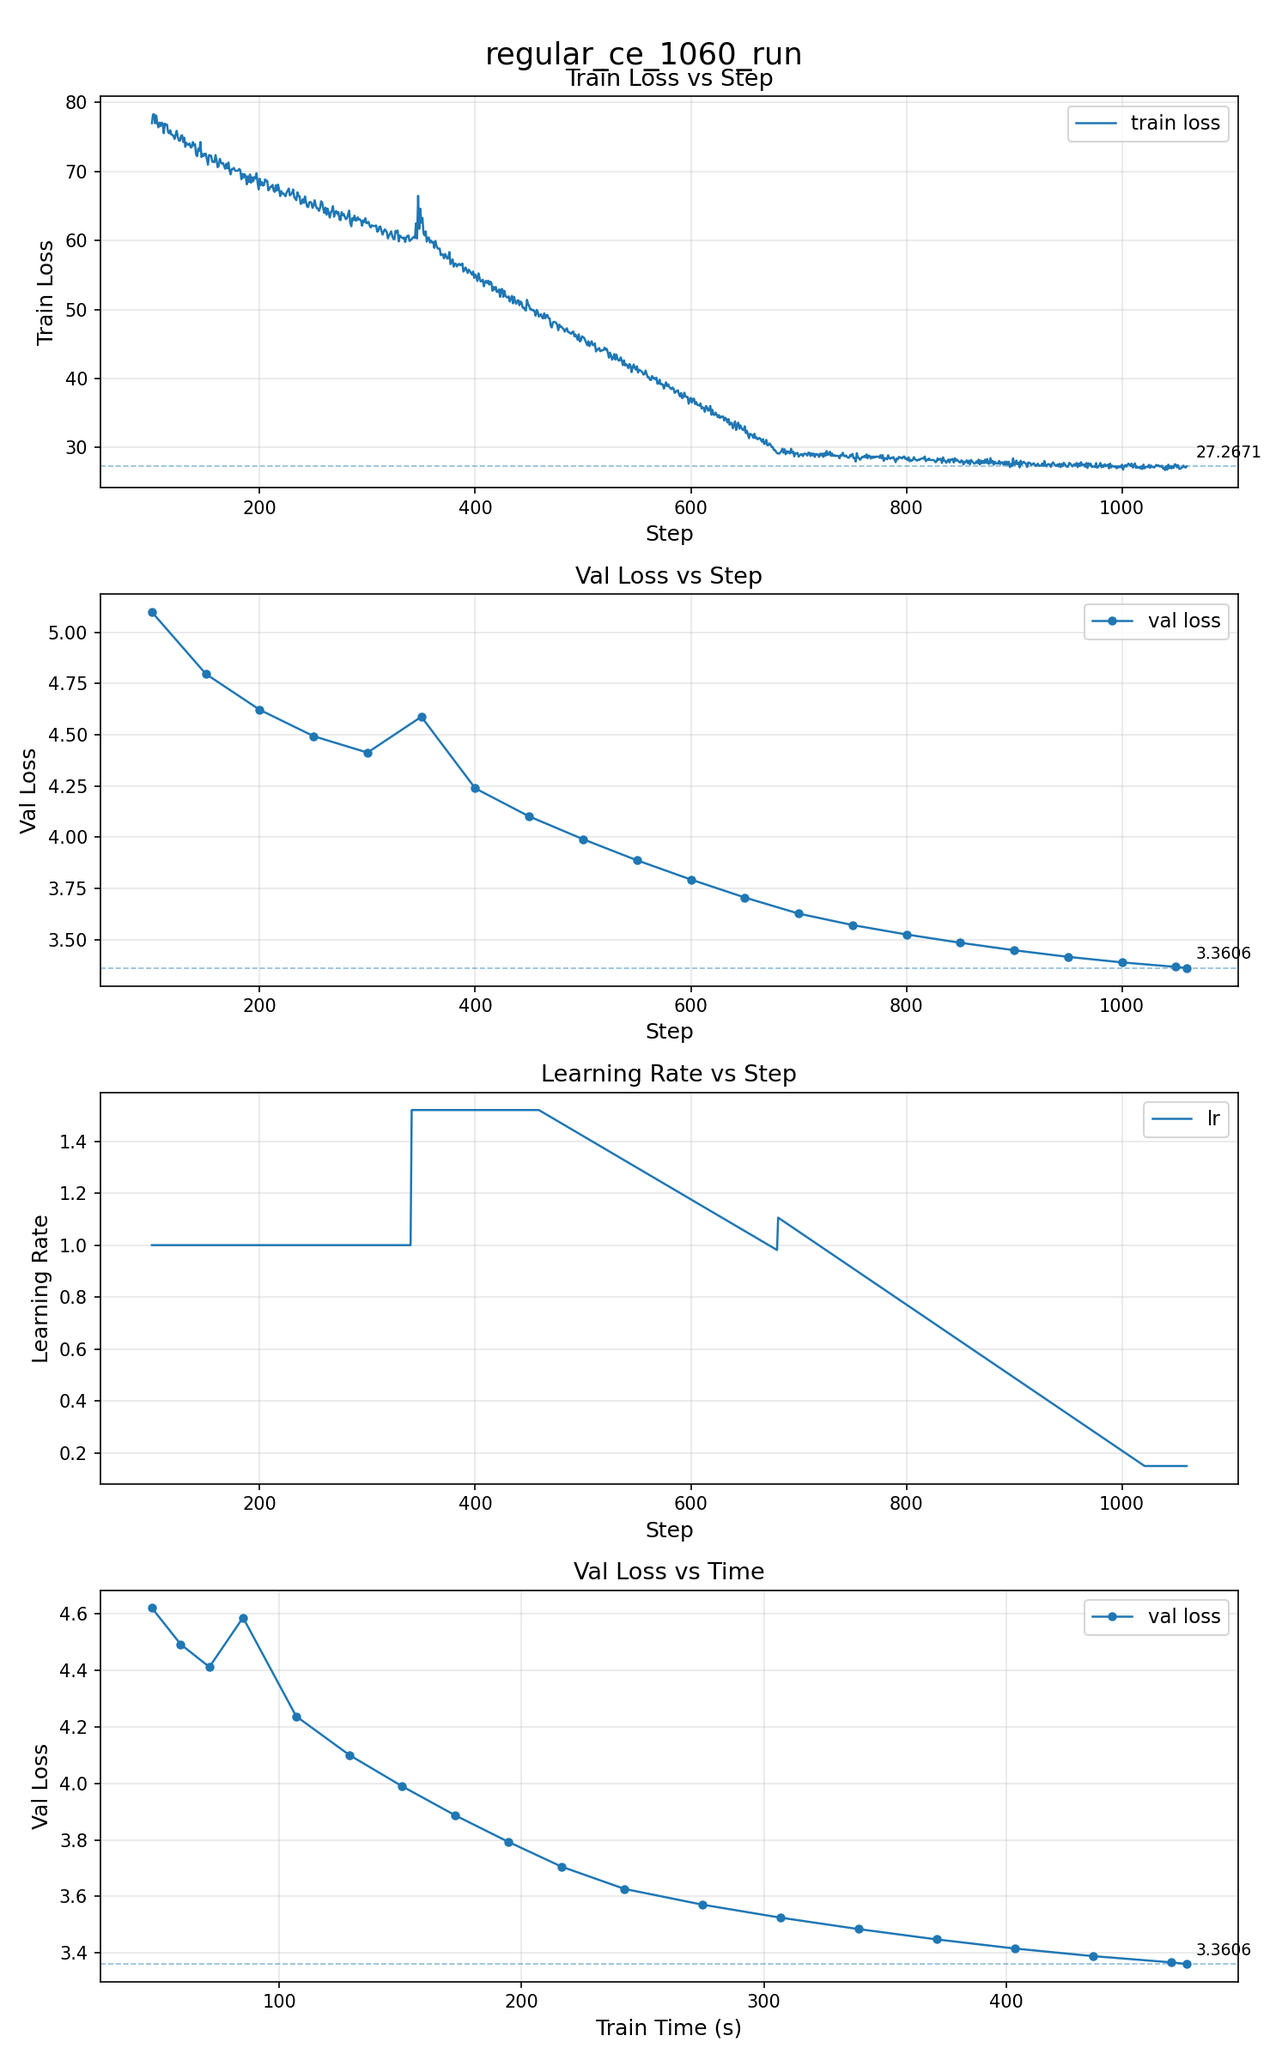
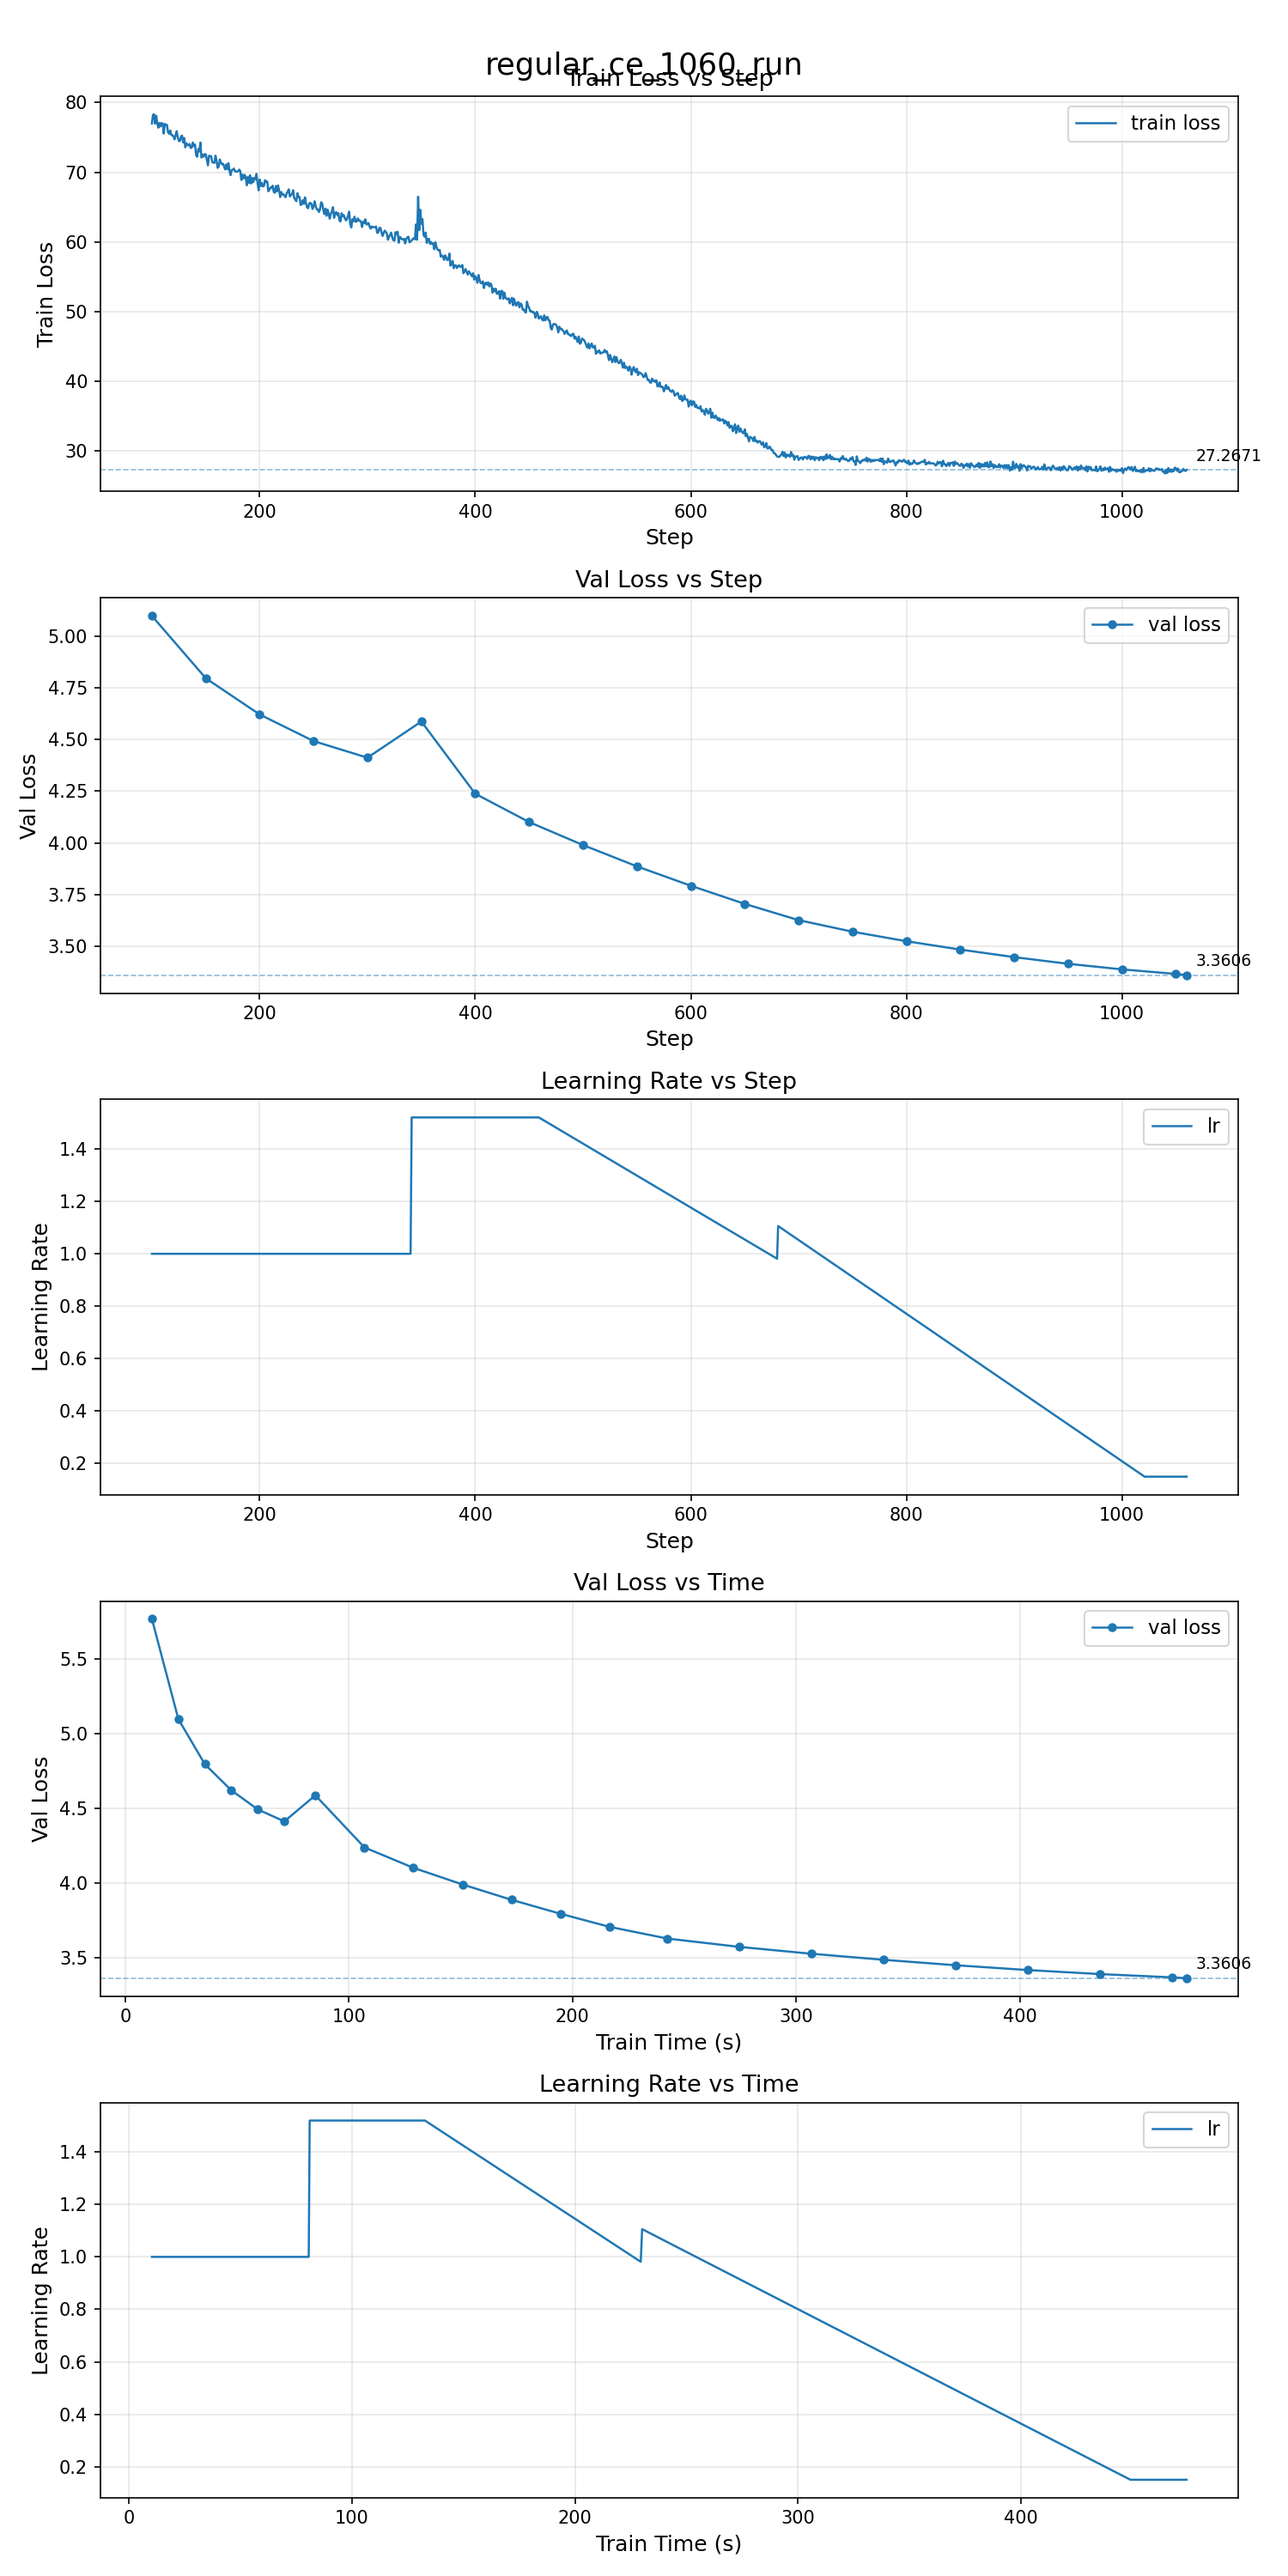
modified 3rd stage scheduler to drop down to higher ls than previous. Prev was 0.15, new is 0.3. Extensions phase still flat 0.15

diff --git a/utils/plot_logs.py b/utils/plot_logs.py
@@ -8,7 +8,7 @@ import matplotlib.pyplot as plt
 
 
 def parse_log(path):
-    train_steps, train_losses, train_lrs = [], [], []
+    train_steps, train_losses, train_lrs, train_times_s = [], [], [], []
     val_steps, val_losses, val_times_s = [], [], []
 
     started = False
@@ -29,25 +29,27 @@ def parse_log(path):
                 continue
 
             # Train line: step:N/M, train_time:Xms, step_avg:Yms, train loss:Z,  lr:W
-            m = re.match(r"step:(\d+)/\d+,.* train loss:([\d.]+),\s+lr:([\d.]+)", line)
+            m = re.match(r"step:(\d+)/\d+, train_time:(\d+)ms,.* train loss:([\d.]+),\s+lr:([\d.]+)", line)
             if m:
                 train_steps.append(int(m.group(1)))
-                train_losses.append(float(m.group(2)))
-                train_lrs.append(float(m.group(3)))
+                train_times_s.append(int(m.group(2)) / 1000)
+                train_losses.append(float(m.group(3)))
+                train_lrs.append(float(m.group(4)))
                 continue
 
             # Train line without train loss: step:N/M, train_time:Xms, step_avg:Yms, lr:W
-            m = re.match(r"step:(\d+)/\d+,.*lr:([\d.]+)", line)
+            m = re.match(r"step:(\d+)/\d+, train_time:(\d+)ms,.*lr:([\d.]+)", line)
             if m:
                 train_steps.append(int(m.group(1)))
+                train_times_s.append(int(m.group(2)) / 1000)
                 train_losses.append(None)
-                train_lrs.append(float(m.group(2)))
+                train_lrs.append(float(m.group(3)))
 
     # Filter out None losses
     filtered_steps = [s for s, l in zip(train_steps, train_losses) if l is not None]
     filtered_losses = [l for l in train_losses if l is not None]
 
-    return filtered_steps, filtered_losses, train_lrs, [s for s in train_steps], val_steps, val_losses, val_times_s
+    return filtered_steps, filtered_losses, train_lrs, list(train_steps), train_times_s, val_steps, val_losses, val_times_s
 
 
 def filter_by(keys, *arrays, min_val=0):
@@ -71,14 +73,15 @@ def apply_log_x(axes, log_x):
             ax.set_xscale("log")
 
 
-def plot_run(run_id, train_steps, train_losses, lr_steps, train_lrs, val_steps, val_losses, val_times_s, out_path, log_x, min_step, min_time):
+def plot_run(run_id, train_steps, train_losses, lr_steps, train_lrs, train_times_s, val_steps, val_losses, val_times_s, out_path, log_x, min_step, min_time):
     # Filter data
     f_train_steps, f_train_losses = filter_by(train_steps, train_losses, min_val=min_step)
     f_lr_steps, f_train_lrs = filter_by(lr_steps, train_lrs, min_val=min_step)
     f_val_steps, f_val_losses = filter_by(val_steps, val_losses, min_val=min_step)
     f_val_times, f_val_losses_t = filter_by(val_times_s, val_losses, min_val=min_time)
+    f_lr_times, f_lr_times_lrs = filter_by(train_times_s, train_lrs, min_val=min_time)
 
-    fig, axes = plt.subplots(4, 1, figsize=(10, 16))
+    fig, axes = plt.subplots(5, 1, figsize=(10, 20))
     fig.suptitle(run_id[:30], fontsize=17)
 
     axes[0].plot(f_train_steps, f_train_losses, linewidth=1.2, label="train loss")
@@ -112,6 +115,13 @@ def plot_run(run_id, train_steps, train_losses, lr_steps, train_lrs, val_steps, 
     axes[3].legend(fontsize=11)
     axes[3].grid(True, alpha=0.3)
 
+    axes[4].plot(f_lr_times, f_lr_times_lrs, linewidth=1.2, label="lr")
+    axes[4].set_xlabel("Train Time (s)", fontsize=12)
+    axes[4].set_ylabel("Learning Rate", fontsize=12)
+    axes[4].set_title("Learning Rate vs Time", fontsize=13)
+    axes[4].legend(fontsize=11)
+    axes[4].grid(True, alpha=0.3)
+
     apply_log_x(axes, log_x)
     plt.tight_layout()
     fig.savefig(out_path, dpi=150)
@@ -132,41 +142,44 @@ def main():
     all_runs = []
     for path in txt_files:
         run_id = os.path.splitext(os.path.basename(path))[0]
-        train_steps, train_losses, train_lrs, lr_steps, val_steps, val_losses, val_times_s = parse_log(path)
+        train_steps, train_losses, train_lrs, lr_steps, train_times_s, val_steps, val_losses, val_times_s = parse_log(path)
 
         if not val_steps and not train_steps:
             continue
 
-        all_runs.append((run_id, train_steps, train_losses, lr_steps, train_lrs, val_steps, val_losses, val_times_s))
+        all_runs.append((run_id, train_steps, train_losses, lr_steps, train_lrs, train_times_s, val_steps, val_losses, val_times_s))
 
         out_path = os.path.join(logs_dir, f"{run_id}.png")
-        plot_run(run_id, train_steps, train_losses, lr_steps, train_lrs, val_steps, val_losses, val_times_s, out_path, opts.log_x, opts.min_step, opts.min_time)
+        plot_run(run_id, train_steps, train_losses, lr_steps, train_lrs, train_times_s, val_steps, val_losses, val_times_s, out_path, opts.log_x, opts.min_step, opts.min_time)
 
     # Combined plot
     if not all_runs:
         print("No runs with training data found.")
         return
 
-    fig, axes = plt.subplots(4, 1, figsize=(12, 18))
+    fig, axes = plt.subplots(5, 1, figsize=(12, 22))
     fig.suptitle("All Runs", fontsize=17)
 
-    for run_id, train_steps, train_losses, lr_steps, train_lrs, val_steps, val_losses, val_times_s in all_runs:
+    for run_id, train_steps, train_losses, lr_steps, train_lrs, train_times_s, val_steps, val_losses, val_times_s in all_runs:
         label = run_id[:30]
         f_train_steps, f_train_losses = filter_by(train_steps, train_losses, min_val=opts.min_step)
         f_lr_steps, f_train_lrs = filter_by(lr_steps, train_lrs, min_val=opts.min_step)
         f_val_steps, f_val_losses = filter_by(val_steps, val_losses, min_val=opts.min_step)
         f_val_times, f_val_losses_t = filter_by(val_times_s, val_losses, min_val=opts.min_time)
+        f_lr_times, f_lr_times_lrs = filter_by(train_times_s, train_lrs, min_val=opts.min_time)
         if f_train_steps:
             line, = axes[0].plot(f_train_steps, f_train_losses, linewidth=1.2, label=label)
             annotate_final(axes[0], f_train_steps, f_train_losses, color=line.get_color())
         if f_val_steps:
             line, = axes[1].plot(f_val_steps, f_val_losses, marker="o", markersize=4, linewidth=1.2, label=label)
             annotate_final(axes[1], f_val_steps, f_val_losses, color=line.get_color())
+        if f_train_lrs:
+            axes[2].plot(f_lr_steps, f_train_lrs, linewidth=1.2, label=label)
         if f_val_times:
             line, = axes[3].plot(f_val_times, f_val_losses_t, marker="o", markersize=4, linewidth=1.2, label=label)
             annotate_final(axes[3], f_val_times, f_val_losses_t, color=line.get_color())
-        if f_train_lrs:
-            axes[2].plot(f_lr_steps, f_train_lrs, linewidth=1.2, label=label)
+        if f_lr_times:
+            axes[4].plot(f_lr_times, f_lr_times_lrs, linewidth=1.2, label=label)
 
     axes[0].set_xlabel("Step", fontsize=12)
     axes[0].set_ylabel("Train Loss", fontsize=12)
@@ -191,6 +204,12 @@ def main():
     axes[3].set_title("Val Loss vs Time", fontsize=13)
     axes[3].legend(fontsize=11)
     axes[3].grid(True, alpha=0.3)
+
+    axes[4].set_xlabel("Train Time (s)", fontsize=12)
+    axes[4].set_ylabel("Learning Rate", fontsize=12)
+    axes[4].set_title("Learning Rate vs Time", fontsize=13)
+    axes[4].legend(fontsize=11)
+    axes[4].grid(True, alpha=0.3)
 
     apply_log_x(axes, opts.log_x)
     plt.tight_layout()

diff --git a/src/s07_schedule.py b/src/s07_schedule.py
@@ -21,7 +21,7 @@ class Hyperparameters:
     val_batch_size: int = 4 * 64 * 1024 * 8
     # schedule
     num_scheduled_iterations: int = 1020  # number of steps to complete lr and ws schedule
-    num_extension_iterations: int = 520  # number of steps to continue training at final lr and ws
+    num_extension_iterations: int = 510  # number of steps to continue training at final lr and ws
     # evaluation and logging
     run_id: str = f"{uuid.uuid4()}"
     val_loss_every: int = 50  # every how many steps to evaluate val loss? 0 for only at the end
@@ -40,6 +40,7 @@ class TrainingStage:
     mtp_weights_end: list[float]
     train_max_seq_len: int
     duration: float = None
+    lr_floor: float = 0.15
 
 class TrainingSchedule:
     """
@@ -71,6 +72,15 @@ class TrainingSchedule:
         # Split embed at specified stage (ensure odd step for Adam)
         self.split_step = self.boundaries[split_embed_stage][0] | 1
 
+        # Precompute stage 3 start LR (using original cooldown formula)
+        s3_start = self.boundaries[2][0]
+        lr = self.stages[2].lr_mul
+        cd_start = int(scheduled_iterations * (1 - cooldown_frac))
+        if s3_start >= cd_start:
+            t = min(1.0, (s3_start - cd_start) / (scheduled_iterations - cd_start))
+            lr = lr * (1 - t) + 0.15 * t
+        self._stage3_start_lr = lr
+
         # Precompute MTP weights for all steps
         self.mtp_weights = []
         for step in range(self.total_steps + 1):
@@ -87,8 +97,19 @@ class TrainingSchedule:
         return self.stages[-1], 1.0
 
     def get_lr(self, step: int) -> float:
-        # learning rate schedule: tied to batch size schedule, with cooldown at the end
         stage, _ = self.lookup(step)
+
+        # Stage 3: linear from original start LR to lr_floor
+        s3_start, s3_end = self.boundaries[2]
+        if s3_start <= step < s3_end:
+            t = (step - s3_start) / (s3_end - s3_start)
+            return self._stage3_start_lr * (1 - t) + stage.lr_floor * t
+
+        # Extension: flat at floor
+        if step >= s3_end:
+            return self.stages[-1].lr_floor
+
+        # Stages 0 & 1: original cooldown behavior
         lr = stage.lr_mul
         cd_start = int(self.scheduled_iterations * (1 - self.cooldown_frac))
         if step >= cd_start:
@@ -102,7 +123,7 @@ TRAINING_STAGES = [
                   mtp_weights_start=[1.0, 0.5, 0.25], mtp_weights_end=[1.0, 0.5, 0.0]),
     TrainingStage(duration=1/3, train_max_seq_len=2048, batch_size=16 * 2048 * 8, window_sizes=(3, 7), lr_mul=1.52,  # (16/8)**0.6
                   mtp_weights_start=[1.0, 0.5], mtp_weights_end=[1.0, 0.0]),
-    TrainingStage(duration=1/3, train_max_seq_len=2048, batch_size=24 * 2048 * 8, window_sizes=(5, 11), lr_mul=1.73,  # (24/8)**0.5
+    TrainingStage(duration=1/3, train_max_seq_len=2048, batch_size=24 * 2048 * 8, window_sizes=(5, 11), lr_mul=1.73, lr_floor=0.30,  # (24/8)**0.5
                   mtp_weights_start=[1.0], mtp_weights_end=[1.0]),
     # extension stage
     TrainingStage(train_max_seq_len=2048, batch_size=24 * 2048 * 8, window_sizes=(6, 13), lr_mul=1.0,  # lr_mul is not used

diff --git a/utils/plot_lr_schedule.py b/utils/plot_lr_schedule.py
@@ -1,0 +1,87 @@
+"""Plot the LR schedule over steps without needing CUDA/distributed."""
+
+import os
+import matplotlib.pyplot as plt
+from itertools import accumulate
+from dataclasses import dataclass
+
+
+@dataclass
+class Stage:
+    duration: float
+    lr_mul: float
+    lr_floor: float = 0.15
+
+# Mirror the stages from s07_schedule.py
+STAGES = [
+    Stage(duration=1/3, lr_mul=1.0, lr_floor=0.15),
+    Stage(duration=1/3, lr_mul=1.52, lr_floor=0.15),
+    Stage(duration=1/3, lr_mul=1.73, lr_floor=0.30),
+    Stage(duration=None, lr_mul=1.0, lr_floor=0.15),  # extension
+]
+
+SCHEDULED_ITERATIONS = 1020
+EXTENSION_ITERATIONS = 510
+COOLDOWN_FRAC = 0.55
+
+TOTAL_STEPS = SCHEDULED_ITERATIONS + EXTENSION_ITERATIONS
+ends = [0] + [round(c * SCHEDULED_ITERATIONS) for c in accumulate(s.duration for s in STAGES[:-1])] + [TOTAL_STEPS]
+boundaries = list(zip(ends, ends[1:]))
+
+
+def lookup(step):
+    for i, (start, end) in enumerate(boundaries):
+        if step < end:
+            return STAGES[i], i
+    return STAGES[-1], len(STAGES) - 1
+
+
+def get_lr_original(step):
+    """Original schedule (used for stages 1 & 2, and to find stage 3 start LR)."""
+    stage, _ = lookup(step)
+    lr = stage.lr_mul
+    cd_start = int(SCHEDULED_ITERATIONS * (1 - COOLDOWN_FRAC))
+    if step >= cd_start:
+        t = min(1.0, (step - cd_start) / (SCHEDULED_ITERATIONS - cd_start))
+        lr = lr * (1 - t) + 0.15 * t
+    return lr
+
+
+# Precompute the LR at the start of stage 3 (using original schedule)
+STAGE3_START_LR = get_lr_original(boundaries[2][0])
+# And the LR at the start of extension (end of stage 3 with new floor)
+STAGE3_END_LR = STAGES[2].lr_floor  # 0.30
+
+
+def get_lr(step):
+    stage, idx = lookup(step)
+    # Stages 0 and 1: original behavior
+    if idx <= 1:
+        return get_lr_original(step)
+    # Stage 2 (third stage): linear from original start LR to lr_floor
+    if idx == 2:
+        start, end = boundaries[2]
+        t = (step - start) / (end - start)
+        return STAGE3_START_LR * (1 - t) + STAGE3_END_LR * t
+    # Extension: flat at floor
+    return STAGES[3].lr_floor
+
+
+steps = list(range(TOTAL_STEPS + 1))
+lrs = [get_lr(s) for s in steps]
+
+plt.figure(figsize=(10, 5))
+plt.plot(steps, lrs, linewidth=1.2)
+plt.xlabel("Step", fontsize=12)
+plt.ylabel("Learning Rate", fontsize=12)
+plt.title(f"LR Schedule (scheduled={SCHEDULED_ITERATIONS}, ext={EXTENSION_ITERATIONS}, cooldown={COOLDOWN_FRAC})", fontsize=13)
+plt.grid(True, alpha=0.3)
+
+# Mark stage boundaries
+for start, end in boundaries[:-1]:
+    plt.axvline(x=end, linestyle="--", linewidth=0.8, alpha=0.4, color="red")
+
+plt.tight_layout()
+out = os.path.join(os.path.dirname(__file__), "lr_schedule.png")
+plt.savefig(out, dpi=150)
+print(f"Saved {out}")

diff --git a/train_gpt.py b/train_gpt.py
@@ -196,7 +196,7 @@ def main():
 
         # logging
         approx_training_time_ms = training_time_ms + 1000 * (time.perf_counter() - t0)
-        print0(f"step:{step+1}/{train_steps}, train_time:{approx_training_time_ms:.0f}ms, step_avg:{approx_training_time_ms/(step + 1):.2f}ms, train loss:{train_loss:.4f},  lr:{training_schedule.get_lr(step)}", console=True)
+        print0(f"step:{step+1}/{train_steps}, train_time:{approx_training_time_ms/1000:.1f}ms, step_avg:{approx_training_time_ms/(step + 1):.2f}ms, train loss:{train_loss:.2f},  lr:{training_schedule.get_lr(step):.2f}", console=True)
 
     print0(f"peak memory allocated: {torch.cuda.max_memory_allocated() // 1024 // 1024} MiB "
            f"reserved: {torch.cuda.max_memory_reserved() // 1024 // 1024} MiB", console=True)
